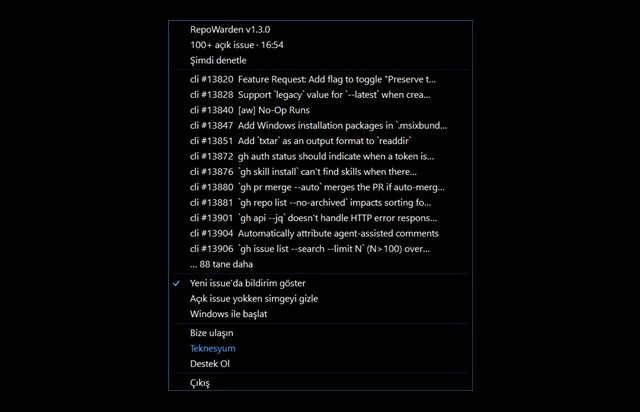
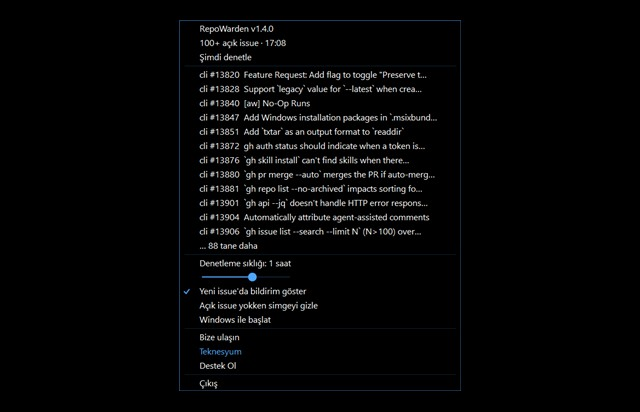
Let the user set the check interval from a bar in the tray menu
Eight steps from 5 minutes to 8 hours, one hour by default, stored in the registry and applied at once.

Changed region(s): [[0.25, 0.0583, 0.6875, 0.9612]]

diff --git a/src/RepoWarden.cs b/src/RepoWarden.cs
@@ -87,11 +87,13 @@ static class Gh
 
 class Uygulama : ApplicationContext
 {
-    public const string Ad = "RepoWarden", Surum = "1.3.0";
+    public const string Ad = "RepoWarden", Surum = "1.4.0";
     const string RunAnahtar = @"Software\Microsoft\Windows\CurrentVersion\Run";
     const string AyarAnahtar = @"Software\" + Ad;
     const string Depo = "https://github.com/Teknesyum/" + Ad;
-    const int Aralik = 3600000, AcilisSuresi = 180000, MenuSinir = 12, BaslikSinir = 48;
+    const int VarsayilanDk = 60, AcilisSuresi = 180000, MenuSinir = 12, BaslikSinir = 48;
+
+    static readonly int[] Adimlar = { 5, 10, 15, 30, 60, 120, 240, 480 };
 
     readonly NotifyIcon tepsi = new NotifyIcon();
     readonly System.Windows.Forms.Timer saat = new System.Windows.Forms.Timer(), acilis = new System.Windows.Forms.Timer();
@@ -134,7 +136,7 @@ class Uygulama : ApplicationContext
             acilis.Tick += (s, e) => { acilis.Stop(); goster = false; Gorunurluk(); };
             AcilisBaslat();
         }
-        saat.Interval = Aralik;
+        saat.Interval = AralikDk() * 60000;
         saat.Tick += (s, e) => Denetle();
         saat.Start();
         Denetle();
@@ -167,6 +169,17 @@ class Uygulama : ApplicationContext
         bildirim = new ToolStripMenuItem(Dil.S("Yeni issue'da bildirim göster", "Notify on new issues"), null, (s, e) => { BildirimKaydet(!bildirim.Checked); bildirim.Checked = !bildirim.Checked; }) { Checked = BildirimAcik() };
         baslangic = new ToolStripMenuItem(Dil.S("Windows ile başlat", "Start with Windows"), null, (s, e) => { Baslangic(!baslangic.Checked); baslangic.Checked = BaslangicVar(); }) { Checked = BaslangicVar() };
         gizle = new ToolStripMenuItem(Dil.S("Açık issue yokken simgeyi gizle", "Hide the icon when there are no open issues"), null, (s, e) => { GizleKaydet(!gizle.Checked); gizle.Checked = !gizle.Checked; }) { Checked = GizleAcik() };
+        ToolStripMenuItem siklik = new ToolStripMenuItem(SiklikYazi(AralikDk())) { Enabled = false };
+        Cubuk cubuk = new Cubuk { Adim = Adimlar.Length, Deger = Array.IndexOf(Adimlar, AralikDk()), Size = new Size(TextRenderer.MeasureText(SiklikYazi(Adimlar[Adimlar.Length - 1]), menu.Font).Width, menu.Font.Height) };
+        cubuk.Degisti += (s, e) =>
+        {
+            int dk = Adimlar[cubuk.Deger];
+            AralikKaydet(dk);
+            saat.Interval = dk * 60000;
+            siklik.Text = SiklikYazi(dk);
+        };
+        menu.Items.Add(siklik);
+        menu.Items.Add(new ToolStripControlHost(cubuk) { AutoSize = false, Size = cubuk.Size, BackColor = Tema.Surface });
         menu.Items.Add(bildirim);
         menu.Items.Add(gizle);
         menu.Items.Add(baslangic);
@@ -379,6 +392,31 @@ class Uygulama : ApplicationContext
         catch { }
     }
 
+    static string SiklikYazi(int dk)
+    {
+        string sure = dk < 60 ? string.Format(Dil.S("{0} dakika", "{0} minutes"), dk) : string.Format(Dil.S("{0} saat", dk == 60 ? "{0} hour" : "{0} hours"), dk / 60);
+        return Dil.S("Denetleme sıklığı: ", "Check every: ") + sure;
+    }
+
+    static int AralikDk()
+    {
+        try
+        {
+            using (RegistryKey k = Registry.CurrentUser.OpenSubKey(AyarAnahtar))
+            {
+                object v = k == null ? null : k.GetValue("AralikDk");
+                return v is int && Array.IndexOf(Adimlar, (int)v) >= 0 ? (int)v : VarsayilanDk;
+            }
+        }
+        catch { return VarsayilanDk; }
+    }
+
+    static void AralikKaydet(int dk)
+    {
+        try { using (RegistryKey k = Registry.CurrentUser.CreateSubKey(AyarAnahtar)) k.SetValue("AralikDk", dk, RegistryValueKind.DWord); }
+        catch { }
+    }
+
     static bool GizleAcik()
     {
         try { using (RegistryKey k = Registry.CurrentUser.OpenSubKey(AyarAnahtar)) return k != null && k.GetValue("SifirdaGizle") is int && (int)k.GetValue("SifirdaGizle") != 0; }
@@ -438,6 +476,48 @@ class Uygulama : ApplicationContext
             Application.SetCompatibleTextRenderingDefault(false);
             Application.Run(new Uygulama(klasor, sahip));
         }
+    }
+}
+
+class Cubuk : Control
+{
+    public int Adim = 2, Deger;
+    public event EventHandler Degisti;
+
+    public Cubuk()
+    {
+        SetStyle(ControlStyles.UserPaint | ControlStyles.AllPaintingInWmPaint | ControlStyles.OptimizedDoubleBuffer | ControlStyles.ResizeRedraw, true);
+        BackColor = Tema.Surface;
+        Cursor = Cursors.Hand;
+    }
+
+    float Cap { get { return Tema.FontSize2 * Tema.Olcek; } }
+
+    protected override void OnPaint(PaintEventArgs e)
+    {
+        float c = Cap, x0 = c / 2, x1 = Width - c / 2, y = Height / 2f, x = x0 + (x1 - x0) * Deger / (Adim - 1);
+        e.Graphics.SmoothingMode = System.Drawing.Drawing2D.SmoothingMode.AntiAlias;
+        using (Pen iz = new Pen(Tema.BorderDecorative, Tema.FocusWidth * Tema.Olcek))
+        using (Pen dolu = new Pen(Tema.Renk1, Tema.FocusWidth * Tema.Olcek))
+        using (SolidBrush top = new SolidBrush(Tema.Renk1))
+        {
+            e.Graphics.DrawLine(iz, x0, y, x1, y);
+            e.Graphics.DrawLine(dolu, x0, y, x, y);
+            e.Graphics.FillEllipse(top, x - c / 2, y - c / 2, c, c);
+        }
+    }
+
+    protected override void OnMouseDown(MouseEventArgs e) { base.OnMouseDown(e); if (e.Button == MouseButtons.Left) Ayarla(e.X); }
+    protected override void OnMouseMove(MouseEventArgs e) { base.OnMouseMove(e); if (e.Button == MouseButtons.Left) Ayarla(e.X); }
+
+    void Ayarla(int fare)
+    {
+        float c = Cap, x0 = c / 2, x1 = Width - c / 2;
+        int d = Math.Max(0, Math.Min(Adim - 1, (int)Math.Round((fare - x0) / (x1 - x0) * (Adim - 1))));
+        if (d == Deger) return;
+        Deger = d;
+        Invalidate();
+        if (Degisti != null) Degisti(this, EventArgs.Empty);
     }
 }
 

diff --git a/README.tr.md b/README.tr.md
@@ -34,7 +34,7 @@ Yapmadığı şey şu: on dört release'e bakıp hepsinin taslak olduğunu görm
 - **Depo başına bir prompt.** Bulguyu, komutu ve kısıtı sıralayan kopyala-yapıştır metin. İstersen bir ajana verirsin, istersen kendin koşarsın.
 - **Arkasında denetim notu bırakır.** Her depoya `docs/github-audit-<tarih>.md` düşer: ne değişti, ne açık kaldı.
 - **Yıkıcı işler sıraya alınır, yapılmaz.** Release silme, uzak tag silme, depo adı değiştirme, varsayılan dal taşıma. Bkz. *Nasıl Çalışır*.
-- **Issue'ları izleyen tepsi uygulaması.** Windows'ta `RepoWarden.exe` bildirim alanında durur, her saat denetler, açık issue sayısını simgesine yazar. Bildirim isteğe bağlıdır.
+- **Issue'ları izleyen tepsi uygulaması.** Windows'ta `RepoWarden.exe` bildirim alanında durur, senin belirlediğin sıklıkta denetler, açık issue sayısını simgesine yazar. Bildirim isteğe bağlıdır.
 - **İki dil.** Depo belgeleri İngilizce çıkar. Çalışma raporu ikisinden biri olabilir.
 
 ## Yapmadıkları
@@ -77,9 +77,10 @@ Kuru koşum: raporu basar ve `reports/audit-<tarih>.md` dosyasına yazar. `--iss
 
 Teknesyum Base'in başlattığı dosya `RepoWarden.exe`. Bildirim alanında (saatin yanındaki simgeler) durur; yalnız GitHub CLI ister, Node.js istemez.
 
-- Her saat, `gh` hangi hesapla oturum açtıysa o hesabın açık issue'larını GitHub'a sorar: tek istek, bir saniye kadar.
+- Varsayılan olarak her saat, `gh` hangi hesapla oturum açtıysa o hesabın açık issue'larını GitHub'a sorar: tek istek, bir saniye kadar.
 - Kalkan hep oradadır; açık issue varsa sayı rozeti taşır: `+` dokuzdan fazla, `!` GitHub'a ulaşılamadı demektir.
 - Simgeye tıklayınca liste açılır. Bir satır o issue'yu tarayıcıda açar. *Şimdi denetle* beklemeyi atlar.
+- *Denetleme sıklığı* altındaki çubuk aralığı belirler: 5, 10, 15, 30 dakika ya da 1, 2, 4, 8 saat.
 - *Yeni issue'da bildirim göster* varsayılan olarak kapalıdır. Açılınca yalnız daha önce görmediği issue için bildirim verir.
 - *Açık issue yokken simgeyi gizle* varsayılan olarak kapalıdır. Açılınca simge uygulama başladıktan sonra üç dakika görünür, sonra sayı sıfırken gizli kalır. Üç dakika daha için `RepoWarden.exe` dosyasını yeniden çalıştır.
 - *Windows ile başlat* ilk açılışta işaretlenir, kaldırılabilir. `--owner <ad>` başka bir hesabı ya da kuruluşu izler.

diff --git a/README.md b/README.md
@@ -34,7 +34,7 @@ What it will not do is look at fourteen releases, notice every single one is a d
 - **A prompt per repository.** Copy-paste text listing the finding, the command and the constraint. Hand it to an agent or run it yourself.
 - **An audit note left behind.** Each repository gets `docs/github-audit-<date>.md`: what changed, what is still open.
 - **Destructive actions queued, never taken.** Deleting a release, deleting a remote tag, renaming a repository, moving a default branch. See *How It Works*.
-- **A tray app that watches for issues.** On Windows, `RepoWarden.exe` sits in the notification area, checks every hour, and puts the open-issue count on its icon. Notifications are opt-in.
+- **A tray app that watches for issues.** On Windows, `RepoWarden.exe` sits in the notification area, checks on a schedule you set, and puts the open-issue count on its icon. Notifications are opt-in.
 - **Both languages.** Repository documents come out English. The working report can be either.
 
 ## What It Does Not Do
@@ -77,9 +77,10 @@ A dry run: it prints the report and writes it to `reports/audit-<date>.md`. Add 
 
 `RepoWarden.exe` is what Teknesyum Base starts. It lives in the notification area (the icons next to the clock) and needs only the GitHub CLI, not Node.js.
 
-- Every hour it asks GitHub for the open issues across the account `gh` is signed in to: one request, about a second.
+- Every hour by default it asks GitHub for the open issues across the account `gh` is signed in to: one request, about a second.
 - The shield is always there; with open issues it carries a count badge: `+` means more than nine, `!` means GitHub could not be reached.
 - Click the icon for the list. An entry opens that issue in the browser. *Check now* skips the wait.
+- The bar under *Check every* sets how often: 5, 10, 15 or 30 minutes, 1, 2, 4 or 8 hours.
 - *Notify on new issues* is off by default. Turned on, only issues it has not seen before raise a notification.
 - *Hide the icon when there are no open issues* is off by default. Turned on, the icon shows for three minutes after the app starts, then stays hidden while the count is zero. Start `RepoWarden.exe` again for another three minutes.
 - *Start with Windows* is switched on at first launch and can be unticked. `--owner <name>` watches another account or organisation.
